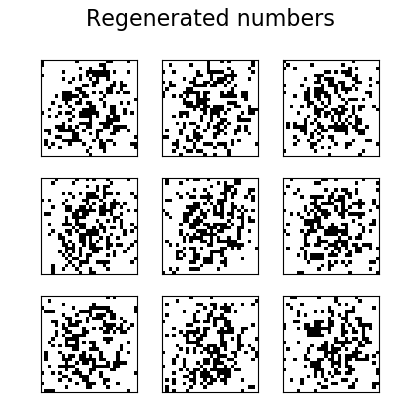
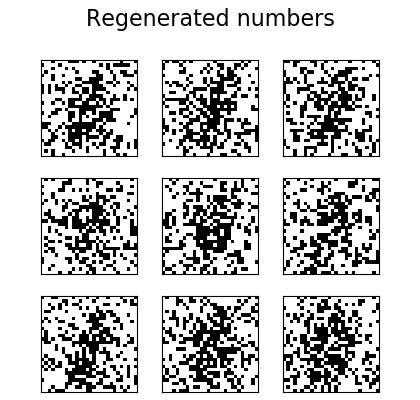
fixed nk implementation

diff --git a/message_pass.py b/message_pass.py
@@ -6,24 +6,27 @@ from torch.utils.data import DataLoader
 
 class SparseMP():
 
-    def __init__(self, adj, local, row, col, lr=0.1, damping=1., eps=1e-16, epochs=100, max_iters=10, batch_size=1, device=torch.device("cpu")):
+    def __init__(self, adj, local, row, col, r2c, lr=0.1, damping=1.0, eps=1e-16, th=0.2, epochs=100, max_iters=10, batch_size=1, device=torch.device("cpu")):
         #torch.manual_seed(0)
         self.device = device
         self.max_iters = max_iters
         self.lr = lr
         self.damping = damping
         self.eps = eps
+        self.th = th
         self.epochs = epochs
         self.batch_size = batch_size
         self.adj = adj
         self.local = local
         self.row = row
         self.col = col
+        self.r2c = r2c
 
-    def train(self, train_set):
+
+    def train(self, train_set, sampler=None):
         """ Perform training for k-regular graph using loopy bp.
         """
-        train_loader = iter(DataLoader(train_set, batch_size=self.batch_size, shuffle=True, num_workers=1))
+        train_loader = iter(DataLoader(train_set, batch_size=self.batch_size, sampler=sampler, num_workers=1))
         i = 0
         while i < self.epochs:
             print("epoch %d" %(i))
@@ -55,11 +58,11 @@ class SparseMP():
         iters = 0
         while iters == 0 or (iters < self.max_iters and torch.max(torch.abs(message_new - message_old)) > self.eps):
             message_old = message_new.clone()
-            message = (torch.zeros(n, device=self.device).index_add_(0, row, message_old)[row] - message_old)[col]
+            message = (torch.zeros(n, device=self.device).index_add_(0, row, message_old)[row] - message_old)[self.r2c]
             message_new = torch.log((torch.exp(local[col] + adj + message) + 1) / (torch.exp(local[col] + message) + 1))
             message_new = message_new * self.damping + message_old * (1 - self.damping)
             iters+=1
-        print("     %d iterations until convergence" % (iters))
+        print("     %d iterations until convergence, minimum difference %.3e" % (iters,  torch.max(torch.abs(message_new - message_old))))
         self.message_free = message_new
 
     def clamp_mp(self, data):
@@ -75,6 +78,7 @@ class SparseMP():
         col = self.col
         n = local.shape[0]
         clamp = data.shape[0]
+
         # Add interaction of clamped units to local biases based on data vectors
         local.index_add_(0, col[row < clamp], adj[row < clamp] * data[row[row < clamp]])
         # Set interaction of clamped units to 0
@@ -83,11 +87,10 @@ class SparseMP():
 
         message_old = self.message_free.unsqueeze(1).repeat(1, self.batch_size)
         message_new = message_old.clone()
-
         iters = 0
-        while iters == 0 or iters < self.max_iters and torch.max(torch.abs(message_new - message_old)) > self.eps:
+        while iters == 0 or (iters < self.max_iters and torch.max(torch.abs(message_new - message_old)) > self.eps):
             message_old = message_new.clone()
-            message = (torch.zeros((n, self.batch_size), device=self.device).index_add_(0, row, message_old)[row] - message_old)[col]
+            message = (torch.zeros((n, self.batch_size), device=self.device).index_add_(0, row, message_old)[row] - message_old)[self.r2c]
             message_new = torch.log((torch.exp(local[col] + adj + message) + 1) / (torch.exp(local[col] + message) + 1))
             message_new = message_new * self.damping + message_old * (1 - self.damping)
             iters+=1
@@ -104,35 +107,37 @@ class SparseMP():
         local = self.local
         row = self.row
         col = self.col
+        r2c = self.r2c
         n = local.shape[0]
         clamp = data.shape[0]
 
         # Calculate marginal joint probability
-        message_free = self.message_free
-        msg_free = (torch.zeros(n, device=self.device).index_add_(0, row, message_free)[row] - message_free)
-        p_ij_marg = 1 / (torch.exp(-(msg_free + msg_free[col] + local[row] + local[col] + adj)) \
-        + torch.exp(-(msg_free + local[row] + adj)) + torch.exp(-(msg_free[col] + local[col] + adj)) + 1)
+        msg_free = self.message_free
+        sum_free = (torch.zeros(n, device=self.device).index_add_(0, row, msg_free)[row] - msg_free)
+        p_ij_marg = 1 / (torch.exp(-(sum_free + sum_free[r2c] + local[row] + local[col] + adj)) \
+        + torch.exp(-(sum_free + local[row] + adj)) + torch.exp(-(sum_free[r2c] + local[col] + adj)) + 1)
 
         # Calculate conditional joint probability
-        message_clamp = self.message_clamp
+        msg_clamp = self.message_clamp
         adj = self.adj.clone().unsqueeze(1).expand(-1, self.batch_size)
         local = local.unsqueeze(1).expand(-1, self.batch_size)
         # Add unit that sends signal of +-100 based on data
-        msg_sum = torch.zeros((n, self.batch_size), device=self.device).index_add_(0, row, message_clamp)
+        msg_sum = torch.zeros((n, self.batch_size), device=self.device).index_add_(0, row, msg_clamp)
         msg_sum[:clamp] += (data * 2 - 1) * 100
-        msg_clamp = msg_sum[row] - message_clamp
-        p_ij_cond = 1 / (torch.exp(-(msg_clamp + msg_clamp[col] + local[row] + local[col] + adj)) \
-        + torch.exp(-(msg_clamp + local[row] + adj)) + torch.exp(-(msg_clamp[col] + local[col] + adj)) + 1)
+        sum_clamp = msg_sum[row] - msg_clamp
+        p_ij_cond = 1 / (torch.exp(-(sum_clamp + sum_clamp[r2c] + local[row] + local[col] + adj)) \
+        + torch.exp(-(sum_clamp + local[row] + adj)) + torch.exp(-(sum_clamp[r2c] + local[col] + adj)) + 1)
         p_ij_cond = torch.sum(p_ij_cond, 1) / self.batch_size
 
         # Calculate marginal and condtional probabilities
-        p_i_marg = logistic(torch.zeros(n, device=self.device).index_add_(0, row, message_free))
-        p_i_cond = torch.sum(logistic(torch.zeros((n, self.batch_size), device=self.device).index_add_(0, row, message_clamp)), 1) / self.batch_size
+        p_i_marg = logistic(torch.zeros(n, device=self.device).index_add_(0, row, msg_free))
+        p_i_cond = torch.sum(logistic(torch.zeros((n, self.batch_size), device=self.device).index_add_(0, row, msg_clamp)), 1) / self.batch_size
 
         # Update model parameters
-        self.adj = torch.clamp(self.adj + self.lr * self.batch_size * (p_ij_cond - p_ij_marg), -0.95, 0.95)
-        print("     weights: " + str(self.adj[data.shape[0]]))
-        self.local = torch.clamp(self.local + self.lr * self.batch_size * (p_i_cond - p_i_marg), -0.95, 0.95)
+        th = self.th
+        self.adj = torch.clamp(self.adj + self.lr * self.batch_size * (p_ij_cond - p_ij_marg), -th, th)
+        print("     weights: " + str(self.adj))
+        self.local = torch.clamp(self.local + self.lr * self.batch_size * (p_i_cond - p_i_marg), -th, th)
 
     def gibbs(self, data, iters):
         """ Perform iters iterations of gibbs sampling, and return result.

diff --git a/main.py b/main.py
@@ -8,11 +8,13 @@ import matplotlib
 matplotlib.use('Agg')
 import matplotlib.pyplot as plt
 import networkx as nx
+import igraph
 import numpy as np
 import scipy.sparse as sp
 from message_pass import SparseMP
+from functools import reduce
 from random import random
-from utils import savefig
+from utils import *
 
 if __name__ == "__main__":
     # Set torch device
@@ -22,9 +24,18 @@ if __name__ == "__main__":
         os.mkdir(root)
 
     # Generate k-regular graph
-    n, k = 100000, 10
+    gtype = GType.KR
+    #gtype = GType.ER
+    n, k = int(5e6), 5
+    cyc = 16
+    print("     expected cycles of length <=%d per node: %.5f" % (cyc, cycles_expected(n, cyc, gtype) / n))
     G = nx.random_regular_graph(k, n, seed=42)
-    #G = nx.fast_gnp_random_graph(n=n, p=k/n, seed=42)
+    # print("Graph connected? %r" % (nx.is_connected(G)))
+    # G = nx.fast_gnp_random_graph(n=n, p=2*math.log(n)/2, seed=42)
+
+    #G = igraph.Graph.Erdos_Renyi(n=n, p=2*math.log(n)/n)
+    # print("Graph connected? %r" % (G.is_connected()))
+    # G = igraph.Graph.K_Regular(n, k)
     # min, max = 3, 10
     # upper = 10
     # y = np.zeros((max - min + 1) // 2)
@@ -41,21 +52,31 @@ if __name__ == "__main__":
     # plt.ylabel("Cycles of length <=%d" % (upper))
     # savefig("cycles_%d_ER.png" % (n))
     # plt.show()
+    lr, eps, th, epochs, batch_size, max_iters = 0.1, 1e-10, 0.4, 1000, 10, 20
     sparse_adj = nx.adjacency_matrix(G)
     row, col = sparse_adj.nonzero()
+    cr = dict(((row[x], col[x]), x) for x in range(col.shape[0]))
+    r2c = np.array([cr[x] for x in list(zip(col, row))])
+    r2c = torch.from_numpy(r2c).type(torch.LongTensor)
     row = torch.from_numpy(row).type(torch.LongTensor)
     col = torch.from_numpy(col).type(torch.LongTensor)
+    # adj_list= G.get_adjlist()
+    # col = torch.LongTensor([item for sublist in adj_list for item in sublist])
+    # row_list = list(map(lambda x: x[0] * [x[1]], zip(list(map(lambda x: len(x), adj_list)), range(n))))
+    # row = torch.LongTensor([item for sublist in row_list for item in sublist])
     if torch.cuda.is_available():
         row = row.cuda()
         col = col.cuda()
     adj = torch.zeros(row.shape[0], device=device)
-    local = torch.rand(n, device=device) - 0.5
+    local = torch.rand(n, device=device) * th - th / 2
 
     trans = transforms.Compose([transforms.ToTensor()])
     # if data does not exist, download mnist dataset
     train_set = dset.MNIST(root=root, train=True, transform=trans, download=True)
-    model = SparseMP(adj=adj, local=local, row=row, col=col, eps=1e-10, lr=0.5, epochs=10, batch_size=10, max_iters=10, device=device)
-    model.train(train_set=train_set)
+    mask = (train_set.train_labels == 5) | (train_set.train_labels == 3)
+    sampler = subSampler(mask)
+    model = SparseMP(adj=adj, local=local, row=row, col=col, r2c=r2c, lr=lr, eps=eps, th=th, epochs=epochs, batch_size=batch_size, max_iters=max_iters, device=device)
+    model.train(train_set=train_set, sampler=sampler)
 
     # Generate n samples from graphical model
     m = 3
@@ -70,4 +91,4 @@ if __name__ == "__main__":
         print("SMP: " + str(i) + " images generated.")
     plt.suptitle('Regenerated numbers', fontsize=16)
     plt.subplots_adjust(0.08, 0.02, 0.92, 0.85, 0.08, 0.23)
-    savefig("gibbs_kr_%d_%d.png" % (n, k))
+    savefig("gibbs_er_%d_%d_%.2f_%d_%d.png" % (n, k, lr, epochs, batch_size))

diff --git a/utils.py b/utils.py
@@ -1,9 +1,23 @@
 import torch
+import math
+from torch.utils.data.sampler import Sampler
 import timeit
 import os
 import matplotlib.pyplot as plt
+from enum import Enum
 
 FIGS_DIR = 'figs'
+
+class GType(Enum):
+    KR = 1
+    ER = 2
+
+def cycles_expected(n, c, gtype):
+    if gtype == GType.ER:
+        f = lambda i: math.pow(2 * math.log(i), i) / (2 * i)
+    else:
+        f = lambda i: math.pow(2, i) / (2 * i)
+    return sum(map(f, range(2, c + 1)))
 
 def logistic(x):
     return 1. / (1. + torch.exp(-x))
@@ -22,3 +36,13 @@ def savefig(fname, verbose=True):
     plt.savefig(path)
     if verbose:
         print("Figure saved as '{}'".format(path))
+
+class subSampler(Sampler):
+    def __init__(self, mask):
+        self.mask = mask
+
+    def __iter__(self):
+        return iter(range((torch.nonzero(self.mask).shape[0])))
+
+    def __len__(self):
+        return len(self.mask)
